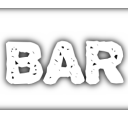
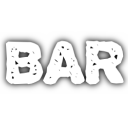
sexy new tiles yeahhh..

Changed region(s): [[0.0, 0.8125, 1.0, 0.875], [0.0, 0.0625, 1.0, 0.0938]]

diff --git a/cfg.py b/cfg.py
@@ -3,13 +3,13 @@ import wx
 # slot machine images
 SLOT_SIZE = (16,16)
 CTRL_SIZE = (50, -1)
-IM_BAR = "bar.png"
-IM_BELL = "bell.png"
-IM_CHERRIES = "cherries.png"
-IM_CLOVER = "clover.png"
-IM_GOLDBARS = "gold_bullion.png"
-IM_TREASURECHEST = "chest.png"
-IM_BLANK = "spacer.png"
+IM_BAR = "bar_tile.png"
+IM_BELL = "bell_tile.png"
+IM_CHERRIES = "cherry_tile.png"
+IM_CLOVER = "clover_tile.png"
+IM_GOLDBARS = "gold_tile.png"
+IM_TREASURECHEST = "chest_tile.png"
+IM_BLANK = "blank_tile.png"
 IM_EMPTY = "any.png"
 
 # pack them in to a tuple to make things easier
